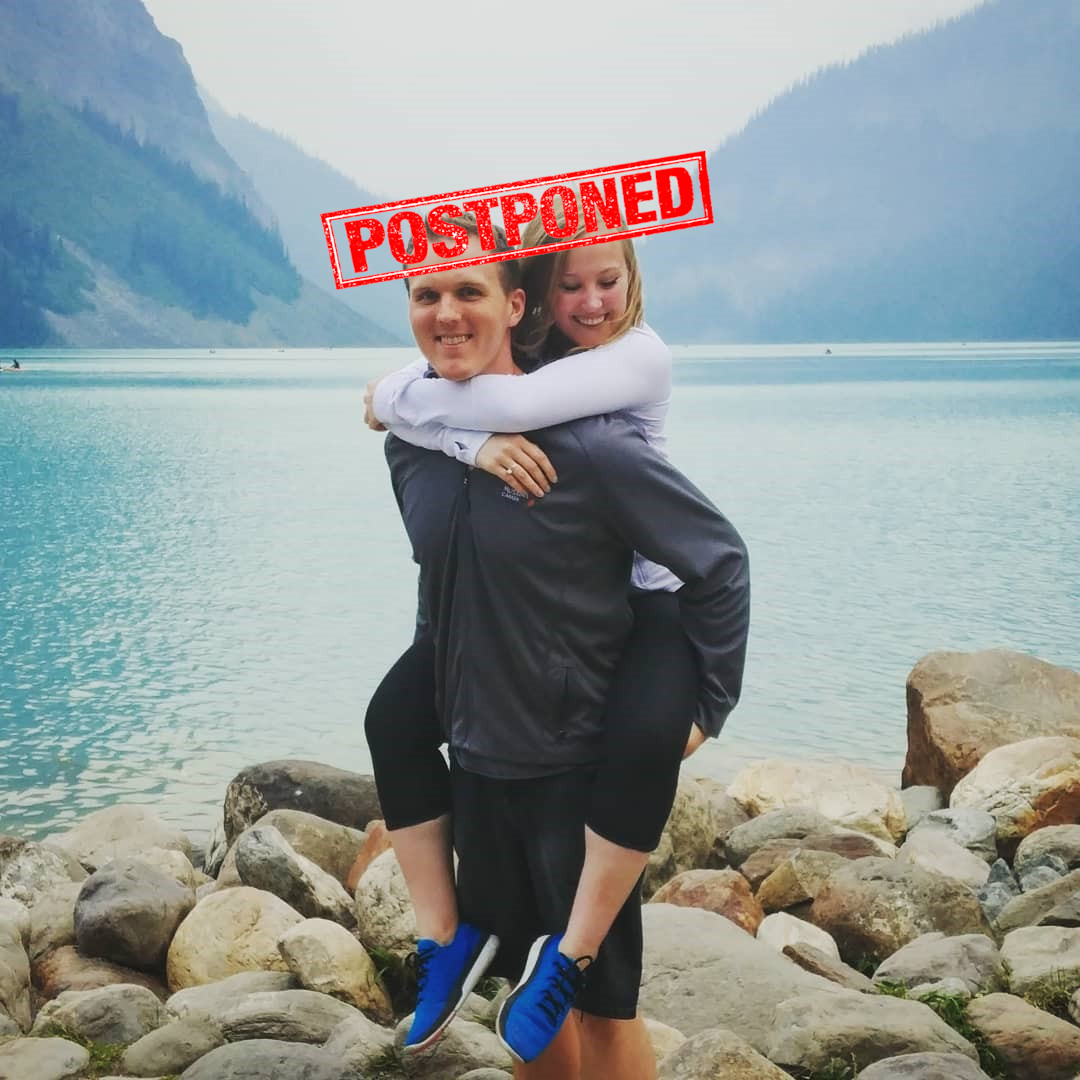
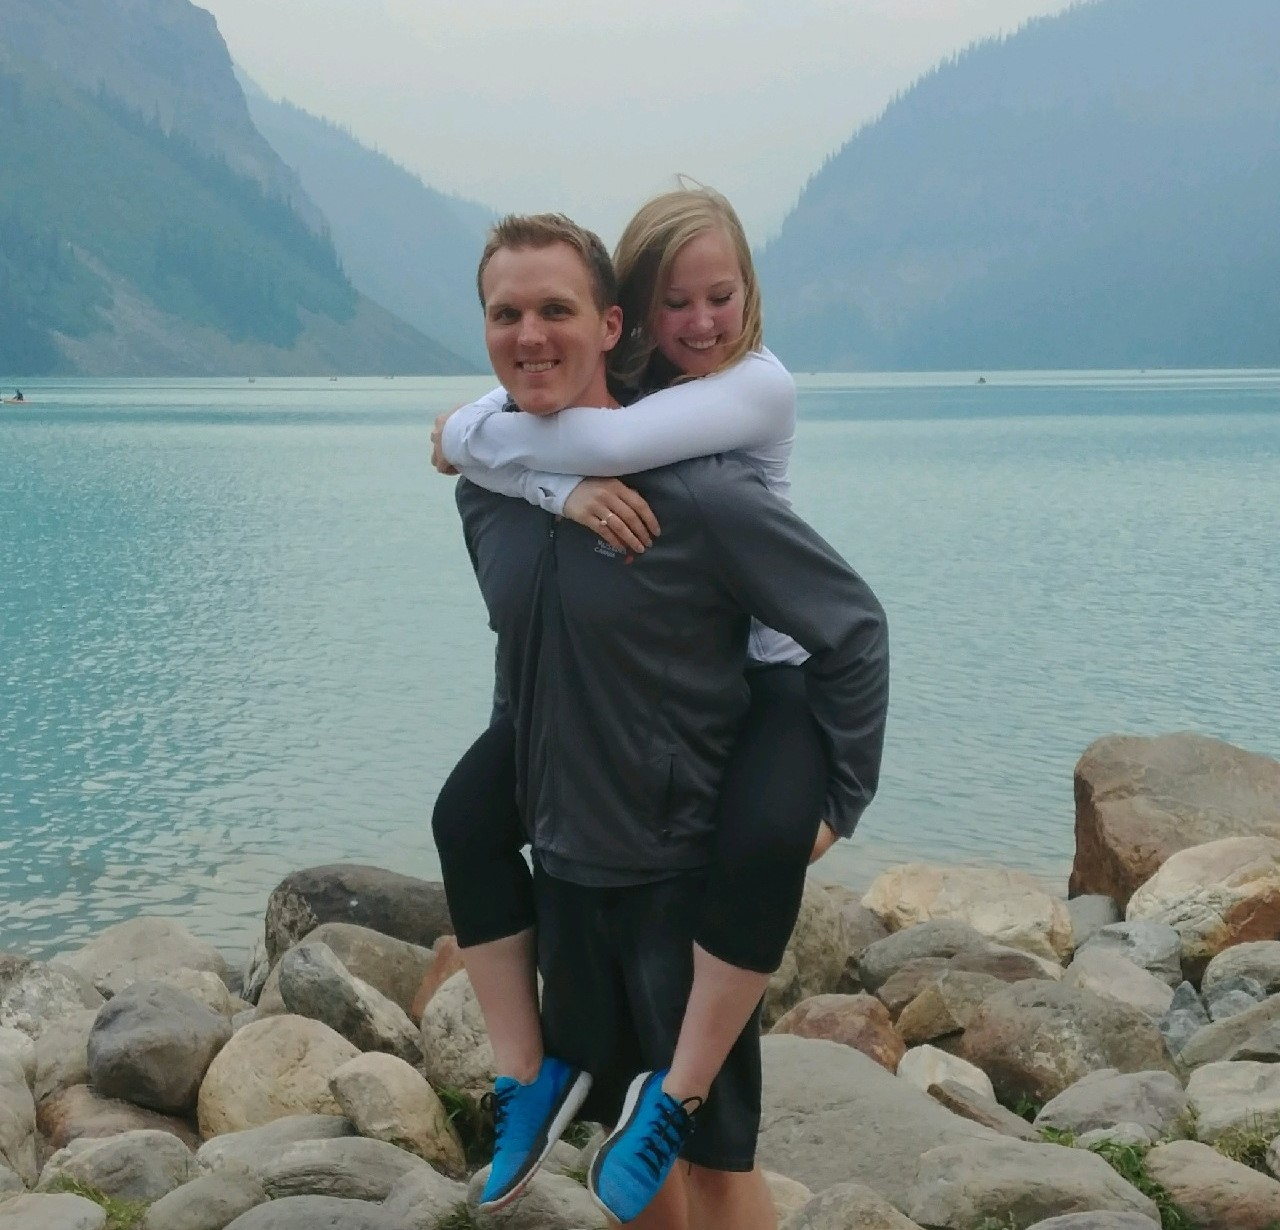
Update

diff --git a/index.html b/index.html
@@ -90,7 +90,7 @@
         <div class="row">
             <div class="col-md-12 text-center">
                 <h3>Chris & Steph are tying the knot</h3>
-                <p>Due to COVID restrictions, we will be postponing the wedding till 2023. We'll reach out with a date once we have more information. </p>
+                <p> </p>
             </div>
 		</div>
 		<div class="row">
